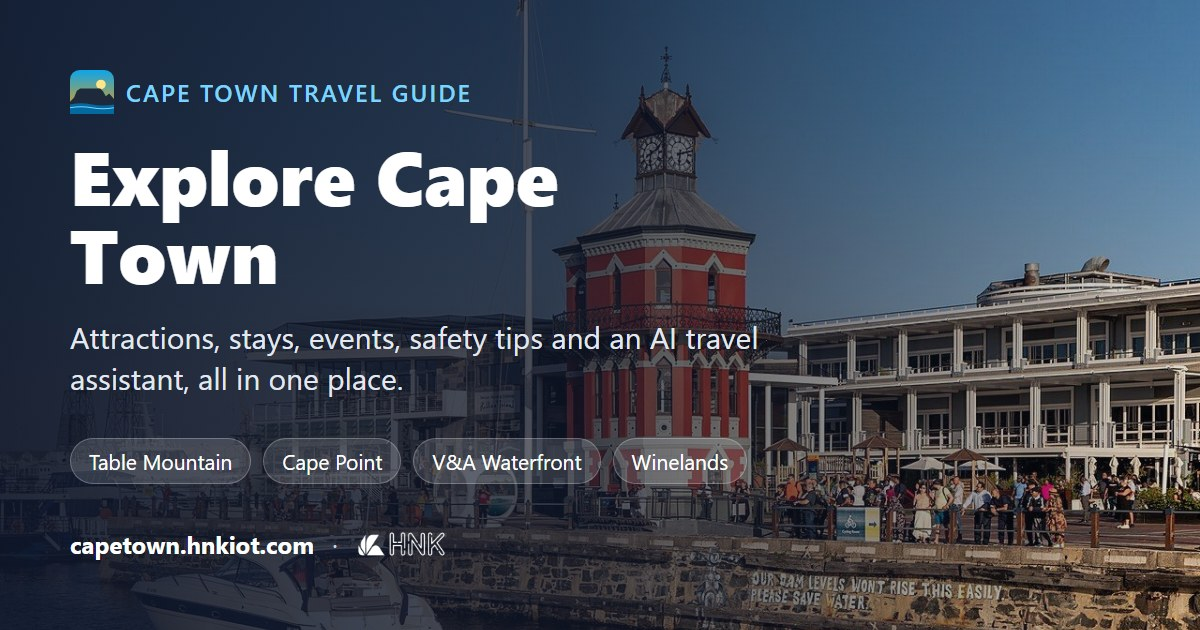
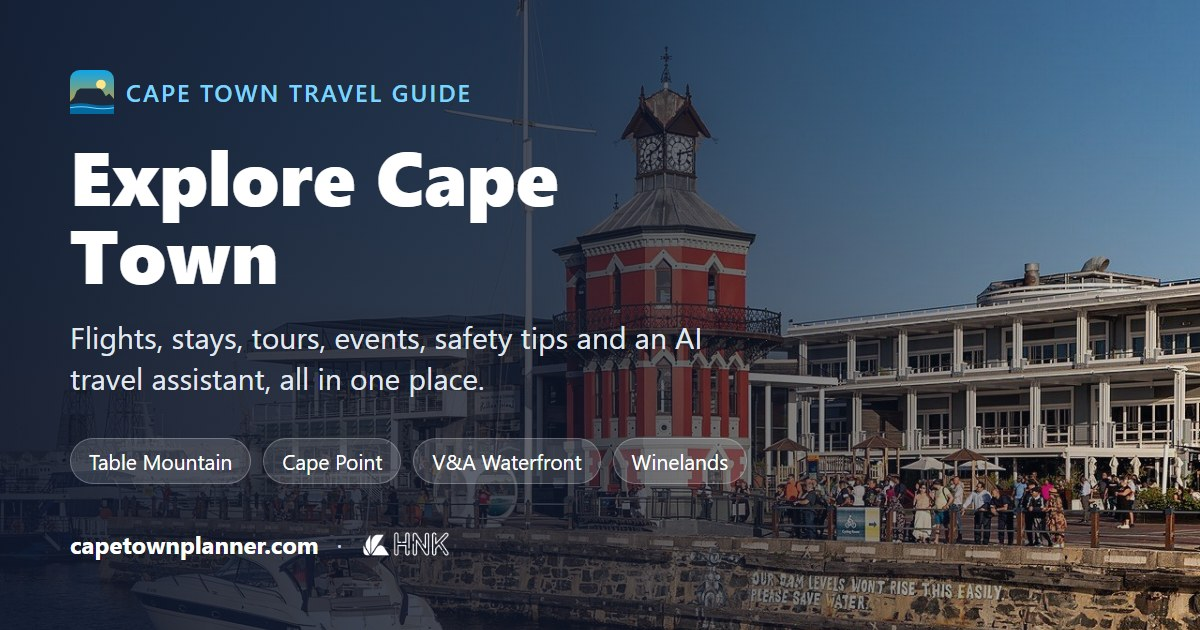
Move to capetownplanner.com
- Canonical address, share tags, sitemap, robots and share image use capetownplanner.com
- functions/_middleware.js redirects capetown.hnkiot.com and www to the new domain (301, path kept)
- API functions accept requests from both domains during the move

Changed region(s): [[0.0617, 0.5127, 0.6475, 0.6333], [0.1542, 0.8444, 0.37, 0.9048]]

diff --git a/index.html b/index.html
@@ -11,7 +11,7 @@
     <meta name="theme-color" content="#0ea5e9" />
     <meta name="geo.region" content="ZA-WC" />
     <meta name="geo.placename" content="Cape Town" />
-    <link rel="canonical" href="https://capetown.hnkiot.com/" />
+    <link rel="canonical" href="https://capetownplanner.com/" />
 
     <!-- impact.com site ownership (Airalo affiliate programme) -->
     <meta name='impact-site-verification' value='c2315f65-9e26-47b6-b056-2f34fb94e094'>
@@ -30,9 +30,9 @@
     <meta property="og:locale" content="en_ZA" />
     <meta property="og:title" content="Cape Town Tourism Platform | Plan Your Cape Town Trip" />
     <meta property="og:description" content="Plan your Cape Town trip: top attractions, places to stay, events, safety tips, transport and a free AI travel assistant. Built by HNK IoT Solutions." />
-    <meta property="og:url" content="https://capetown.hnkiot.com/" />
-    <meta property="og:image" content="https://capetown.hnkiot.com/og-image.jpg" />
-    <meta property="og:image:secure_url" content="https://capetown.hnkiot.com/og-image.jpg" />
+    <meta property="og:url" content="https://capetownplanner.com/" />
+    <meta property="og:image" content="https://capetownplanner.com/og-image.jpg" />
+    <meta property="og:image:secure_url" content="https://capetownplanner.com/og-image.jpg" />
     <meta property="og:image:type" content="image/jpeg" />
     <meta property="og:image:width" content="1200" />
     <meta property="og:image:height" content="630" />
@@ -44,7 +44,7 @@
     <meta name="twitter:creator" content="@HnkIotSolutions" />
     <meta name="twitter:title" content="Cape Town Tourism Platform | Plan Your Cape Town Trip" />
     <meta name="twitter:description" content="Plan your Cape Town trip: top attractions, places to stay, events, safety tips, transport and a free AI travel assistant. Built by HNK IoT Solutions." />
-    <meta name="twitter:image" content="https://capetown.hnkiot.com/og-image.jpg" />
+    <meta name="twitter:image" content="https://capetownplanner.com/og-image.jpg" />
     <meta name="twitter:image:alt" content="Explore Cape Town: the V&amp;A Waterfront clock tower with the Cape Town Tourism Platform title" />
 
     <!-- Travelpayouts Drive (affiliate links). Only after consent, on public pages only: it is a third-party
@@ -69,7 +69,7 @@
 
     <!-- Structured data for search engines -->
     <script type="application/ld+json">
-      {"@context":"https://schema.org","@graph":[{"@type":"WebSite","@id":"https://capetown.hnkiot.com/#website","name":"Cape Town Tourism Platform","url":"https://capetown.hnkiot.com/","inLanguage":"en-ZA","image":"https://capetown.hnkiot.com/og-image.jpg","description":"Attractions, places to stay, events, safety tips, transport and an AI travel assistant for Cape Town.","publisher":{"@id":"https://hnkiot.com/#organization"},"about":{"@type":"City","name":"Cape Town","containedInPlace":{"@type":"Country","name":"South Africa"}}},{"@type":"Organization","@id":"https://hnkiot.com/#organization","name":"HNK IoT Solutions (Pty) Ltd","alternateName":"HNK IoT Solutions","url":"https://hnkiot.com","logo":"https://capetown.hnkiot.com/android-chrome-512x512.png","email":"henock@hnkiot.com","telephone":"+27614719400","founder":{"@type":"Person","name":"Henock Mukonkole"},"address":{"@type":"PostalAddress","addressLocality":"Cape Town","addressRegion":"Western Cape","addressCountry":"ZA"},"contactPoint":{"@type":"ContactPoint","contactType":"customer support","email":"henock@hnkiot.com","telephone":"+27614719400","availableLanguage":["English"]},"sameAs":["https://www.linkedin.com/in/hnk-iot-solutions/","https://github.com/hnkiot","https://www.youtube.com/@HNKIoTSolutions","https://www.facebook.com/HnkIoTSolutions","https://www.instagram.com/hnkiotsolutions/","https://x.com/HnkIotSolutions","https://www.tiktok.com/@hnkiot"]},{"@type":"WebApplication","name":"Cape Town Tourism Platform","url":"https://capetown.hnkiot.com/","applicationCategory":"TravelApplication","operatingSystem":"Any","offers":{"@type":"Offer","price":"0","priceCurrency":"ZAR"},"provider":{"@id":"https://hnkiot.com/#organization"}}]}
+      {"@context":"https://schema.org","@graph":[{"@type":"WebSite","@id":"https://capetownplanner.com/#website","name":"Cape Town Tourism Platform","url":"https://capetownplanner.com/","inLanguage":"en-ZA","image":"https://capetownplanner.com/og-image.jpg","description":"Attractions, places to stay, events, safety tips, transport and an AI travel assistant for Cape Town.","publisher":{"@id":"https://hnkiot.com/#organization"},"about":{"@type":"City","name":"Cape Town","containedInPlace":{"@type":"Country","name":"South Africa"}}},{"@type":"Organization","@id":"https://hnkiot.com/#organization","name":"HNK IoT Solutions (Pty) Ltd","alternateName":"HNK IoT Solutions","url":"https://hnkiot.com","logo":"https://capetownplanner.com/android-chrome-512x512.png","email":"henock@hnkiot.com","telephone":"+27614719400","founder":{"@type":"Person","name":"Henock Mukonkole"},"address":{"@type":"PostalAddress","addressLocality":"Cape Town","addressRegion":"Western Cape","addressCountry":"ZA"},"contactPoint":{"@type":"ContactPoint","contactType":"customer support","email":"henock@hnkiot.com","telephone":"+27614719400","availableLanguage":["English"]},"sameAs":["https://www.linkedin.com/in/hnk-iot-solutions/","https://github.com/hnkiot","https://www.youtube.com/@HNKIoTSolutions","https://www.facebook.com/HnkIoTSolutions","https://www.instagram.com/hnkiotsolutions/","https://x.com/HnkIotSolutions","https://www.tiktok.com/@hnkiot"]},{"@type":"WebApplication","name":"Cape Town Tourism Platform","url":"https://capetownplanner.com/","applicationCategory":"TravelApplication","operatingSystem":"Any","offers":{"@type":"Offer","price":"0","priceCurrency":"ZAR"},"provider":{"@id":"https://hnkiot.com/#organization"}}]}
     </script>
   </head>
   <body>

diff --git a/functions/api/booking-email.js b/functions/api/booking-email.js
@@ -6,7 +6,7 @@
 
 const FROM = 'Cape Town Tourism <bookings@hnkiot.com>';
 const HNK_COPY = 'henock@hnkiot.com';
-const ALLOWED_ORIGINS = ['https://capetown.hnkiot.com', 'https://capetown-tourism.pages.dev'];
+const ALLOWED_ORIGINS = ['https://capetownplanner.com', 'https://capetown.hnkiot.com', 'https://capetown-tourism.pages.dev'];
 
 const escapeHtml = (value) =>
   String(value ?? '').replace(/&/g, '&amp;').replace(/</g, '&lt;').replace(/>/g, '&gt;').replace(/"/g, '&quot;');
@@ -62,7 +62,7 @@ export async function onRequestPost({ request, env }) {
 <table style="border-collapse:collapse;font-size:14px;margin-bottom:16px">
 <tr><td style="padding:6px 12px 6px 0;color:#6b7280">Reference</td><td style="padding:6px 0;font-weight:600">${escapeHtml(reference)}</td></tr>${rows}</table>
 <p style="margin:0 0 16px;font-size:14px;color:#374151">Nothing is charged online: you pay the venue directly once your booking is confirmed.</p>
-<p style="margin:0;font-size:14px"><a href="https://capetown.hnkiot.com/my-bookings" style="color:#111827;font-weight:600">View My Bookings</a></p>
+<p style="margin:0;font-size:14px"><a href="https://capetownplanner.com/my-bookings" style="color:#111827;font-weight:600">View My Bookings</a></p>
 <hr style="border:none;border-top:1px solid #e5e7eb;margin:20px 0">
 <p style="margin:0;font-size:12px;color:#6b7280">Cape Town Tourism Platform by HNK IoT Solutions · henock@hnkiot.com · WhatsApp +27 61 471 9400</p>
 </div></div></body></html>`;
@@ -73,7 +73,7 @@ export async function onRequestPost({ request, env }) {
     ...details.map(([label, value]) => `${label}: ${value}`),
     '',
     'We will confirm availability with the venue and get back to you. Nothing is charged online.',
-    'https://capetown.hnkiot.com/my-bookings',
+    'https://capetownplanner.com/my-bookings',
   ].join('\n');
 
   const res = await fetch('https://api.resend.com/emails', {

diff --git a/src/pages/Events.jsx b/src/pages/Events.jsx
@@ -135,7 +135,7 @@ const downloadCalendarFile = (event) => {
     'VERSION:2.0',
     'PRODID:-//HNK IoT Solutions//Cape Town Tourism Platform//EN',
     'BEGIN:VEVENT',
-    `UID:event-${event.id}-${event.startDate}@capetown.hnkiot.com`,
+    `UID:event-${event.id}-${event.startDate}@capetownplanner.com`,
     `DTSTAMP:${new Date().toISOString().replace(/[-:]/g, '').split('.')[0]}Z`,
     `DTSTART;VALUE=DATE:${toIcsDate(event.startDate)}`,
     `DTEND;VALUE=DATE:${end.toISOString().slice(0, 10).replace(/-/g, '')}`,

diff --git a/functions/_middleware.js b/functions/_middleware.js
@@ -1,0 +1,13 @@
+// Sends visitors from old addresses to the main domain, keeping the page and query
+// (so old shared links and poster QR codes still work).
+const MAIN_HOST = 'capetownplanner.com';
+const OLD_HOSTS = ['capetown.hnkiot.com', 'www.capetownplanner.com'];
+
+export async function onRequest({ request, next }) {
+  const url = new URL(request.url);
+  if (OLD_HOSTS.includes(url.hostname)) {
+    url.hostname = MAIN_HOST;
+    return Response.redirect(url.toString(), 301);
+  }
+  return next();
+}

diff --git a/functions/api/tts.js b/functions/api/tts.js
@@ -4,7 +4,7 @@
 const REGION = 'southafricanorth';
 const VOICES = ['en-ZA-LeahNeural', 'en-ZA-LukeNeural'];
 const MAX_CHARS = 1200;
-const ALLOWED_ORIGINS = ['https://capetown.hnkiot.com', 'https://capetown-tourism.pages.dev'];
+const ALLOWED_ORIGINS = ['https://capetownplanner.com', 'https://capetown.hnkiot.com', 'https://capetown-tourism.pages.dev'];
 
 const escapeXml = (text) =>
   text.replace(/&/g, '&amp;').replace(/</g, '&lt;').replace(/>/g, '&gt;').replace(/"/g, '&quot;').replace(/'/g, '&apos;');

diff --git a/functions/api/gemini/[[path]].js b/functions/api/gemini/[[path]].js
@@ -3,7 +3,7 @@
 // The key is the encrypted Pages secret GEMINI_API_KEY.
 
 const GEMINI_ORIGIN = 'https://generativelanguage.googleapis.com';
-const ALLOWED_ORIGINS = ['https://capetown.hnkiot.com', 'https://capetown-tourism.pages.dev'];
+const ALLOWED_ORIGINS = ['https://capetownplanner.com', 'https://capetown.hnkiot.com', 'https://capetown-tourism.pages.dev'];
 // Only model calls the site actually makes
 const ALLOWED_PATH = /^v1beta\/models\/[a-z0-9.-]+:(generateContent|streamGenerateContent)$/;
 

diff --git a/src/utils/seo.js b/src/utils/seo.js
@@ -2,7 +2,7 @@
 // and the post-build script that writes per-route HTML for link previews.
 // Plain data only: this file is also imported by Node at build time.
 
-export const SITE_URL = 'https://capetown.hnkiot.com';
+export const SITE_URL = 'https://capetownplanner.com';
 export const SITE_NAME = 'Cape Town Tourism Platform';
 export const DEFAULT_IMAGE = `${SITE_URL}/og-image.jpg`;
 

diff --git a/README.md b/README.md
@@ -4,7 +4,7 @@
 
 ## 🌐 Live Demo
 
-**🚀 Visit the live site:** [https://capetown.hnkiot.com/](https://capetown.hnkiot.com/)
+**🚀 Visit the live site:** [https://capetownplanner.com/](https://capetownplanner.com/)
 
 ---
 
@@ -991,7 +991,7 @@ npm run lint
 
 ### ☁ Deploy to Cloudflare Pages (Current)
 
-> **Live Site:** [https://capetown.hnkiot.com/](https://capetown.hnkiot.com/) (Cloudflare Pages project `capetown-tourism`)
+> **Live Site:** [https://capetownplanner.com/](https://capetownplanner.com/) (Cloudflare Pages project `capetown-tourism`)
 
 1. **Log in to Cloudflare once:**
    ```bash
@@ -1005,7 +1005,7 @@ npm run lint
    This runs `vite build` and uploads `dist/` to the `capetown-tourism` Pages project.
    Environment variables are read from your local `.env` at build time, so there is nothing to set in the Cloudflare dashboard.
 
-3. **Custom domain:** `capetown.hnkiot.com` is attached to the Pages project and needs a proxied
+3. **Custom domain:** `capetownplanner.com` is attached to the Pages project and needs a proxied
    `CNAME capetown → capetown-tourism.pages.dev` record in the `hnkiot.com` DNS zone.
 
 `public/_headers` sets security headers and long-term caching for hashed assets. Cloudflare Pages serves
@@ -1200,7 +1200,7 @@ This project is licensed under the **MIT License**.
 - ✅ **Rapid Development** - Full-stack app in 8 hours
 - ✅ **Modern Tech Stack** - Latest React, Vite, Tailwind
 - ✅ **AI Integration** - Google Gemini for smart recommendations
-- ✅ **Production Ready** - Deployed on Cloudflare Pages at capetown.hnkiot.com
+- ✅ **Production Ready** - Deployed on Cloudflare Pages at capetownplanner.com
 - ✅ **Secure** - Firestore security rules and auth
 - ✅ **Responsive** - Works flawlessly on all devices
 - ✅ **Well Documented** - Comprehensive guides and comments
@@ -1228,7 +1228,7 @@ This project is licensed under the **MIT License**.
 
 ## 🌍 Built with ❤ for Cape Town Tourism
 
-**Live Site:** [capetown.hnkiot.com](https://capetown.hnkiot.com/)
+**Live Site:** [capetownplanner.com](https://capetownplanner.com/)
 **Repository:** [github.com/henockhnk092-dot/capetown-tourism-platform](https://github.com/henockhnk092-dot/capetown-tourism-platform)
 
 ### ⭐ Star this repo if you found it helpful!
